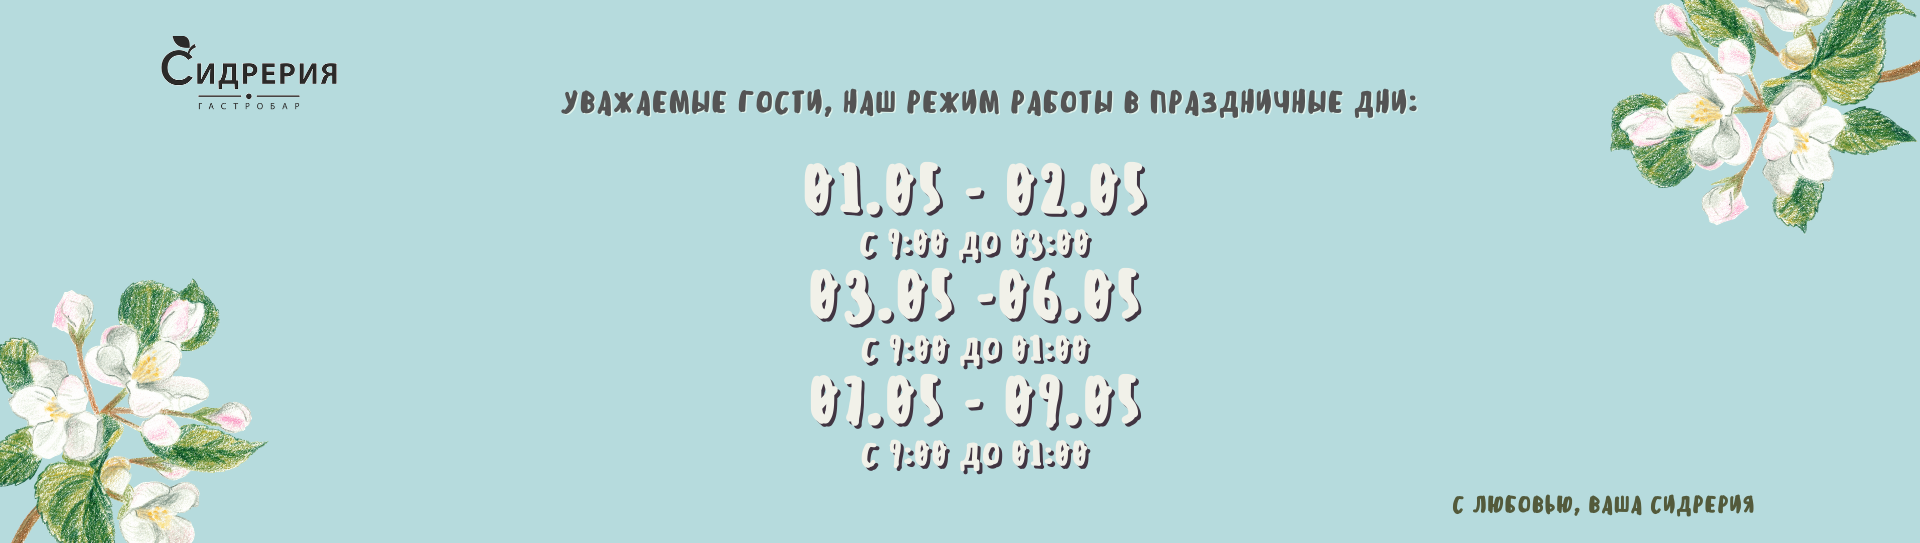
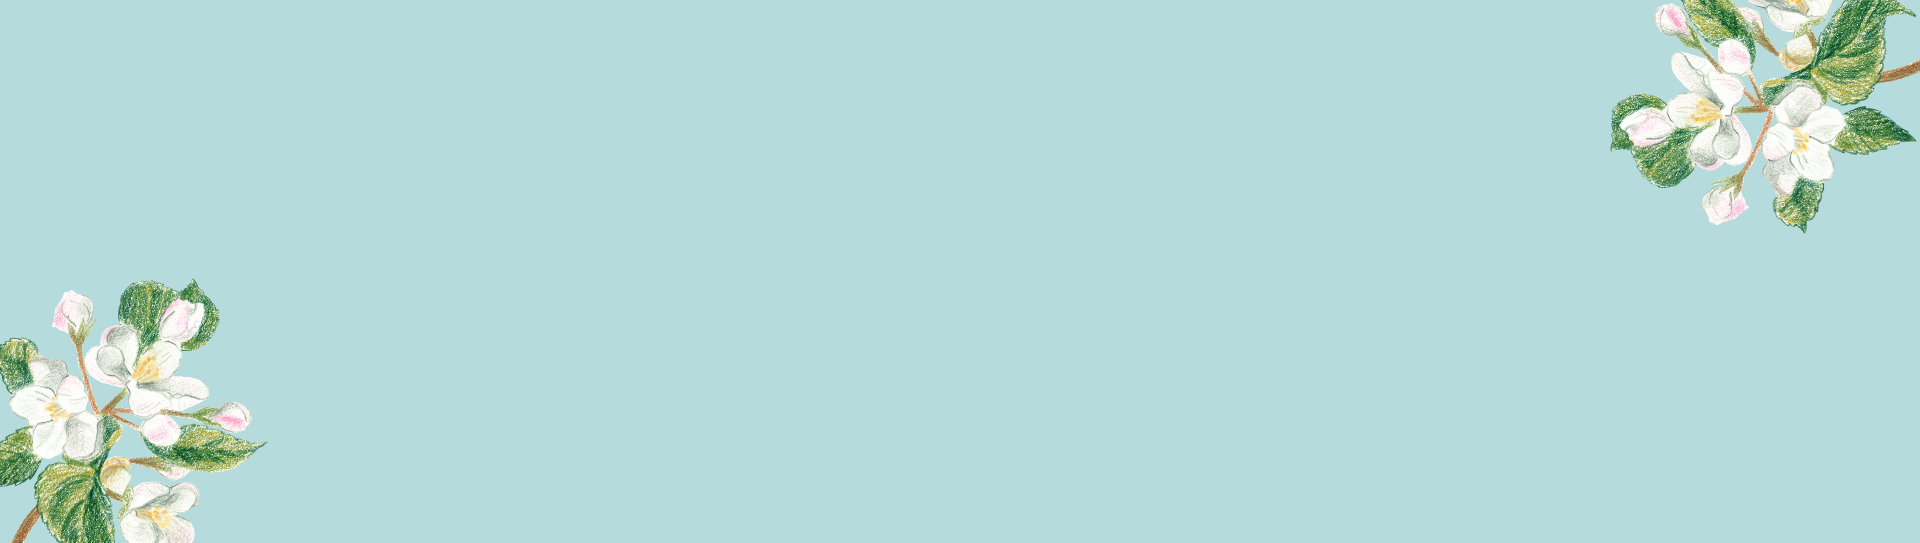
новый баннер на главную страницу

diff --git a/baseapp/templates/baseapp/index.html b/baseapp/templates/baseapp/index.html
@@ -143,14 +143,23 @@
 			</div>
 		</div>
 	</div>
-	<!-- <div class="item-slide" data-background="{% static 'images/banners/vacation.png' %}" data-height="543" data-reponsive='{"320":300,"400":480,"768":400,"1024":543}'>
+	<div class="item-slide" data-background="{% static 'images/banners/vacation.png' %}" data-height="543" data-reponsive='{"320":300,"400":480,"768":400,"1024":543}'>
 		<div class="content-slide">
 			<div class="container container-slide">
 				<div class="inner">
+					<span data-animate="fadeInDown" class="caption as_span">Наш режим работы в праздничные дни:</span>
+					<h2 data-animate="zoomIn" class="caption as_title" style="padding-top: 20px;">01.05 - 02.05</h2>
+					<h2 data-animate="zoomIn" class="caption as_subtitle">- c 9:00 до 03:00</h2>
+					<h2 data-animate="zoomIn" class="caption as_title">03.05 - 06.05</h2>
+					<h2 data-animate="zoomIn" class="caption as_subtitle">- c 9:00 до 01:00</h2>
+					<h2 data-animate="zoomIn" class="caption as_title">07.05 - 09.05</h2>
+					<h2 data-animate="zoomIn" class="caption as_subtitle">- c 9:00 до 03:00</h2>
+
+					<h2 data-animate="fadeInDown" class="caption as_subtitle" style="padding-top: 30px;">С ЛЮБОВЬЮ, ВАША СИДРЕРИЯ</h2>
 				</div>
 			</div>
 		</div>
-	</div> -->
+	</div>
 	<div class="item-slide" data-background="{% static 'images/banners/sidreriya_banner2.jpg' %}" data-height="543" data-reponsive='{"320":300,"400":480,"768":400,"1024":543}'>
 		<div class="content-slide">
 			<div class="container container-slide">

diff --git a/baseapp/static/css/style.css b/baseapp/static/css/style.css
@@ -8372,6 +8372,26 @@ HOME SLIDER
     padding-right: 110px;
 }
 
+/*annasoft*/
+
+.slide-home3 .as_title{
+    font-size: 40px;
+    font-weight: 900;
+    color: #ffffff;
+}
+.slide-home3 .as_subtitle{
+    font-size: 30px;
+    color: #ffffff;
+    font-family: 'Bebas';
+}
+
+.slide-home3 .as_span{
+    font-size: 20px;
+    color: #ffffff;
+    font-weight: 900;
+}
+
+/*annasoft*/
 
 .slide-home4 .subtitle{
     font-size: 18px;
